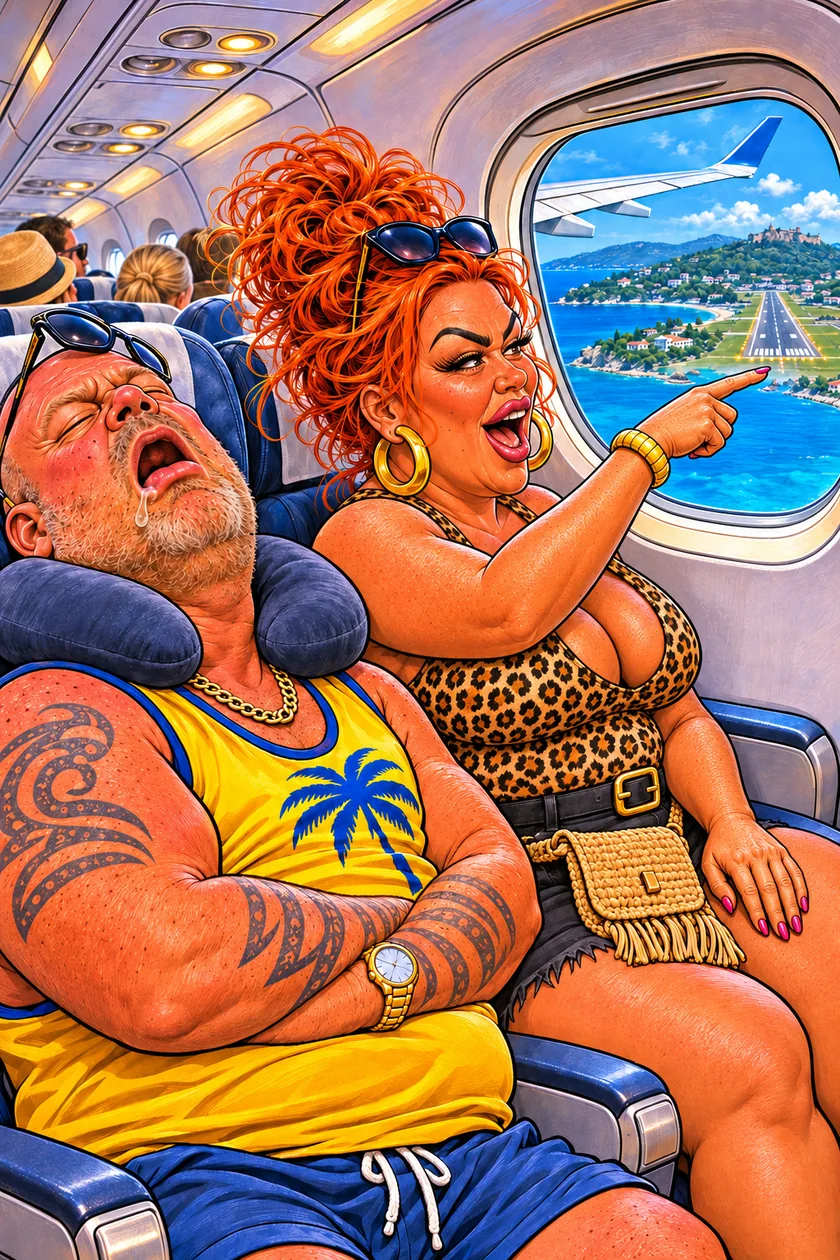
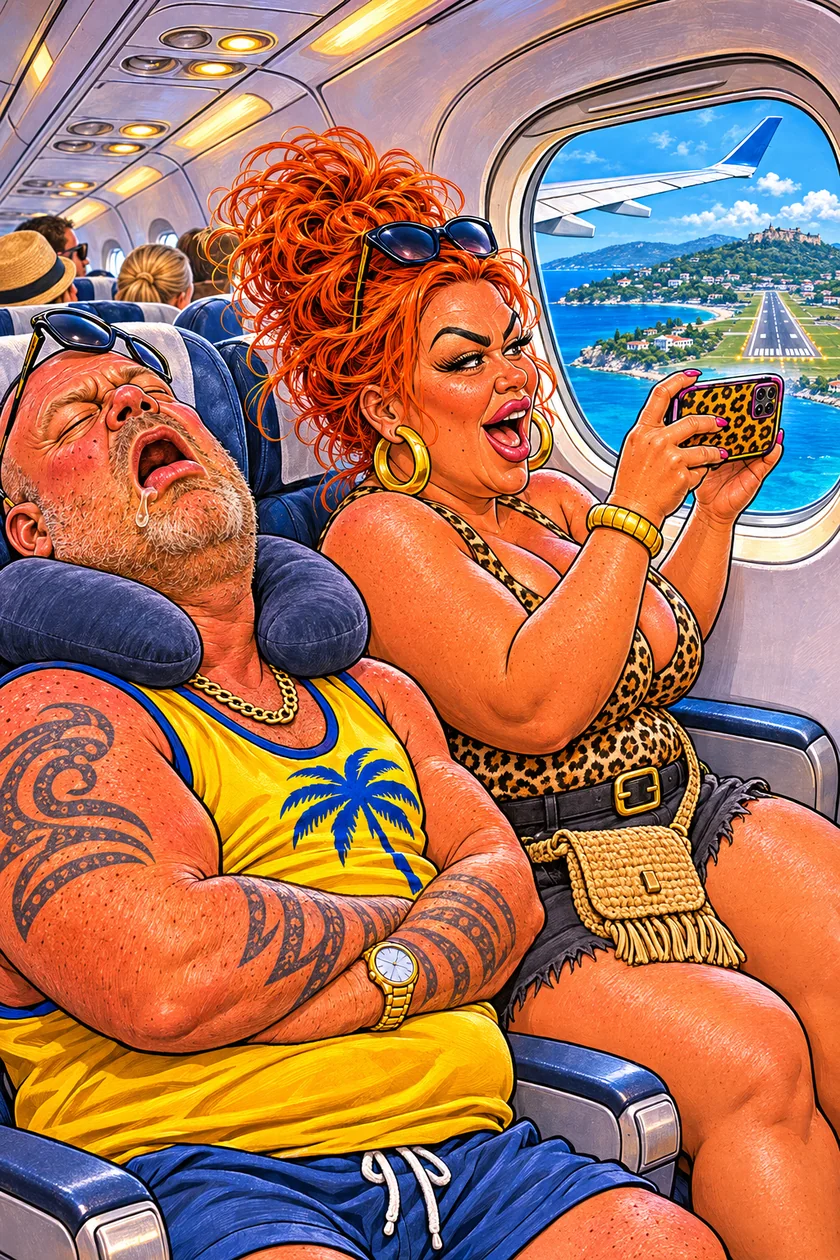
Restore Sharon filming the landing in Corfu

diff --git a/chapter1.js b/chapter1.js
@@ -2,7 +2,7 @@
 const CHAPTER={
   id:"chapter1",
   steps:[
-    {t:"narr",scene:"landing",text:{m:"Sharon points out Corfu coming into view. Dave sleeps through the landing. He's been awake since they left the UK, telling anyone who'll listen about the apartment buffet.",f:"Sharon spots Corfu through the plane window. She nudges Dave to show him. He snores right through it."}},
+    {t:"narr",scene:"landing",text:{m:"Sharon films Corfu coming into view. Dave sleeps through the landing. He's been awake since they left the UK, telling anyone who'll listen about the apartment buffet.",f:"Sharon finally gets a clear shot of Corfu out the plane window. Then Dave's snoring makes it onto the recording."}},
     {t:"narr",scene:"baggage",text:{m:"The carousel makes one last turn. Dave's case appears. Two pairs of shorts, one shirt and enough van magnets to rebrand the entire airport.",f:"The carousel makes one last turn. Sharon grabs the case before Dave can put his back out. Again."}},
     {t:"narr",scene:"arrivals",text:"The rep points to the transfer coach. Dave eyes the queue and heads for the hire office. Sharon follows. Someone has to read the paperwork."},
     {t:"narr",scene:"van",wide:true,text:"Corfu Airport. 35°C. A white van sits outside the hire office. Dave booked it months ago and has brought the magnets to prove it."},

diff --git a/sw.js b/sw.js
@@ -1,7 +1,7 @@
 importScripts("assets/chapter1-art.js");
 
 const PREFIX = "sidari-quest-";
-const CACHE = PREFIX + "playtest-v3";
+const CACHE = PREFIX + "playtest-v4";
 const SHELL = [
   "./", "index.html", "manifest.json", "chapter1.js", "progress.js",
   "icon-180.png", "icon-192.png", "icon-512.png", "assets/chapter1-art.js"

diff --git a/docs/CHAPTER1_ART_PRODUCTION.md b/docs/CHAPTER1_ART_PRODUCTION.md
@@ -6,7 +6,7 @@ The approved [title reference](../art/reference/style_reference_title_screen.png
 
 Dialogue scenes now use six full-body sprites with room for shoes, hands and hair. Dave uses his existing approved standing design. Sharon has a hands-free standing pose. Spyros Rent-a-Van, Kyria Eleni, Kyrios Spyros and Fat Spyros use the faces and visible clothing from their approved references, extended to full length. Wide location shots establish the setting before the characters move into the foreground for dialogue. Name tags sit below the sprites. Dialogue reactions use movement and text with the standing art.
 
-Original PNGs remain in place. New masters are under `art/raw/approved/`; run the importer to refresh the WebPs, remove nearly transparent edge noise, and add uniform padding. The title background and three playable airport panels use hands-free artwork for Sharon.
+Original PNGs remain in place. New masters are under `art/raw/approved/`; run the importer to refresh the WebPs, remove nearly transparent edge noise, and add uniform padding. Sharon uses her phone to film the view in the plane. The title, baggage reclaim and arrivals panels show her with empty hands.
 
 ## Artwork from the first playtest
 
